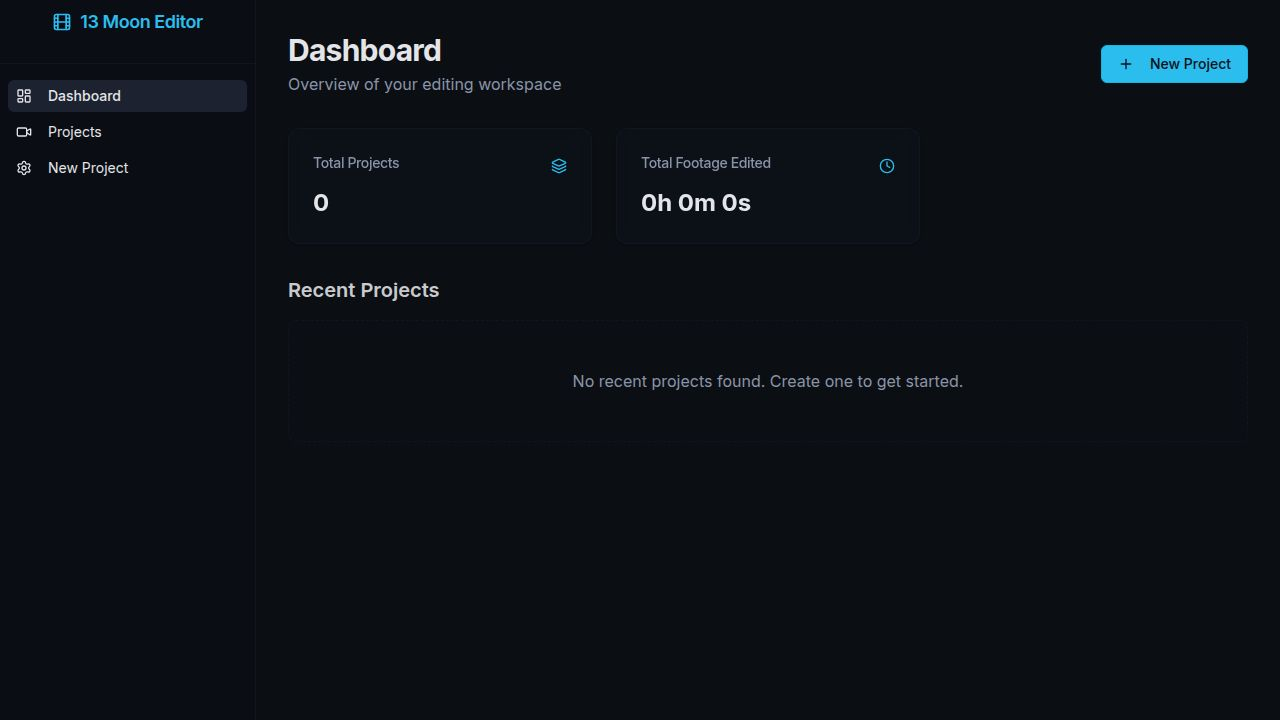
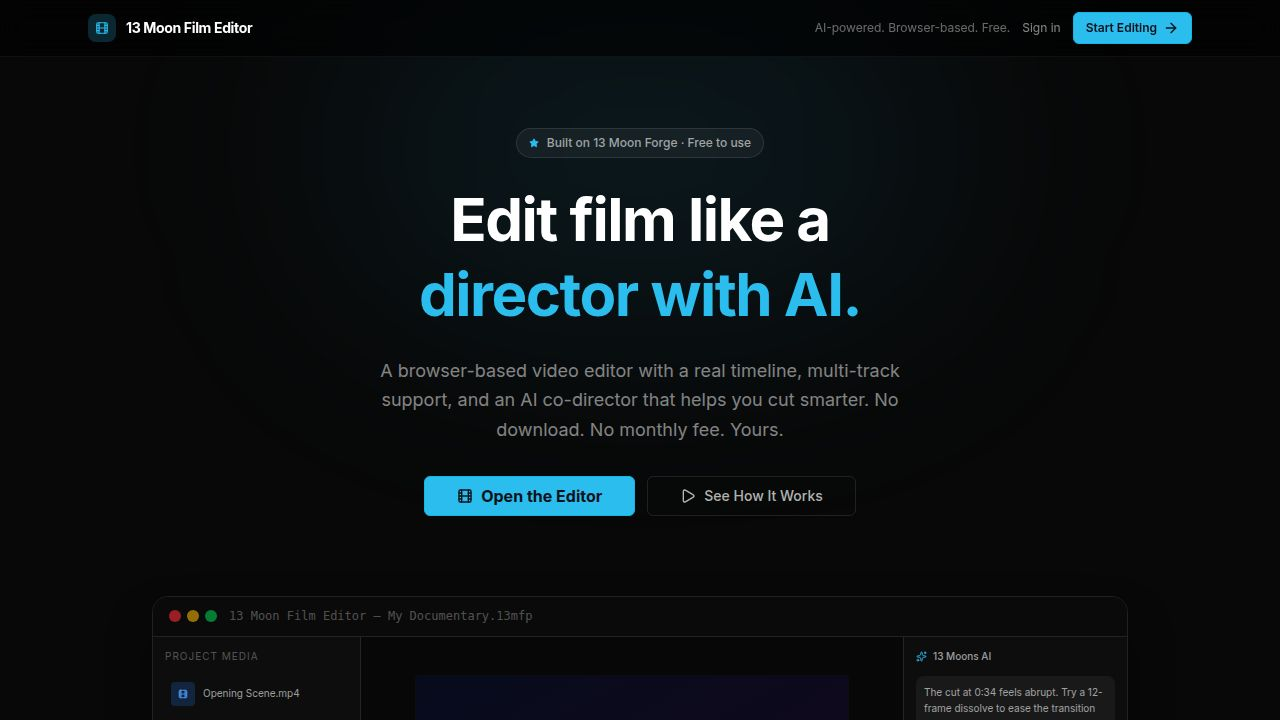
Add a sign-in page and enhance the dashboard with project templates
Add a new sign-in page component and route, and introduce quick-start templates to the dashboard for new film projects.

Replit-Commit-Author: Agent
Replit-Commit-Session-Id: cb496eb3-b730-44a3-8812-dbd408260926
Replit-Commit-Checkpoint-Type: full_checkpoint
Replit-Commit-Event-Id: a4cd8c9f-7460-4e6d-bfd3-202cbced2e61
Replit-Commit-Screenshot-Url: https://storage.googleapis.com/screenshot-production-us-central1/ae502d99-2e22-4428-9695-6a23076322d0/cb496eb3-b730-44a3-8812-dbd408260926/K6FhKYI
Replit-Helium-Checkpoint-Created: true

diff --git a/artifacts/film-editor/src/pages/dashboard.tsx b/artifacts/film-editor/src/pages/dashboard.tsx
@@ -1,95 +1,196 @@
-import { useListFilmProjects, useGetRecentFilmProjects } from "@workspace/api-client-react";
-import { Card, CardContent, CardHeader, CardTitle, CardDescription } from "@/components/ui/card";
+import { useListFilmProjects, useGetRecentFilmProjects, useCreateFilmProject, getListFilmProjectsQueryKey, getGetRecentFilmProjectsQueryKey } from "@workspace/api-client-react";
+import { Card, CardContent, CardHeader, CardTitle } from "@/components/ui/card";
 import { Button } from "@/components/ui/button";
-import { Link } from "wouter";
-import { Film, Clock, Layers, Plus } from "lucide-react";
+import { Link, useLocation } from "wouter";
+import { Film, Clock, Layers, Plus, Sparkles, Clapperboard, Smartphone, Monitor, Video, Loader2 } from "lucide-react";
+import { useQueryClient } from "@tanstack/react-query";
+import { useToast } from "@/hooks/use-toast";
 
 function formatDuration(ms: number) {
-  const seconds = Math.floor(ms / 1000);
-  const minutes = Math.floor(seconds / 60);
-  const hours = Math.floor(minutes / 60);
-  return `${hours}h ${minutes % 60}m ${seconds % 60}s`;
+  const s = Math.floor(ms / 1000);
+  const m = Math.floor(s / 60);
+  const h = Math.floor(m / 60);
+  if (h > 0) return `${h}h ${m % 60}m`;
+  if (m > 0) return `${m}m`;
+  return `${s}s`;
 }
 
+const STARTERS = [
+  {
+    icon: Clapperboard,
+    label: "Documentary",
+    desc: "16:9 · 24fps · Long-form storytelling",
+    color: "blue",
+    config: { title: "My Documentary", aspectRatio: "16:9", frameRate: 24, description: "Long-form documentary project" },
+  },
+  {
+    icon: Smartphone,
+    label: "Social Reel",
+    desc: "9:16 · 30fps · Short-form vertical",
+    color: "pink",
+    config: { title: "Social Reel", aspectRatio: "9:16", frameRate: 30, description: "Short-form vertical content" },
+  },
+  {
+    icon: Monitor,
+    label: "Short Film",
+    desc: "21:9 · 24fps · Cinematic ultrawide",
+    color: "purple",
+    config: { title: "My Short Film", aspectRatio: "21:9", frameRate: 24, description: "Cinematic short film project" },
+  },
+  {
+    icon: Video,
+    label: "Tutorial",
+    desc: "16:9 · 60fps · High-frame instructional",
+    color: "green",
+    config: { title: "Tutorial Video", aspectRatio: "16:9", frameRate: 60, description: "Instructional tutorial video" },
+  },
+] as const;
+
+const COLOR = {
+  blue: "bg-blue-500/10 border-blue-500/20 text-blue-400 hover:border-blue-400/50 hover:bg-blue-500/15",
+  pink: "bg-pink-500/10 border-pink-500/20 text-pink-400 hover:border-pink-400/50 hover:bg-pink-500/15",
+  purple: "bg-purple-500/10 border-purple-500/20 text-purple-400 hover:border-purple-400/50 hover:bg-purple-500/15",
+  green: "bg-green-500/10 border-green-500/20 text-green-400 hover:border-green-400/50 hover:bg-green-500/15",
+};
+
 export default function Dashboard() {
+  const [, navigate] = useLocation();
+  const { toast } = useToast();
+  const queryClient = useQueryClient();
   const { data: allProjects, isLoading: isLoadingAll } = useListFilmProjects();
   const { data: recentProjects, isLoading: isLoadingRecent } = useGetRecentFilmProjects();
+  const createProject = useCreateFilmProject();
 
   const totalDuration = allProjects?.reduce((acc, p) => acc + (p.totalDurationMs || 0), 0) || 0;
 
-  if (isLoadingAll || isLoadingRecent) {
-    return <div className="p-8 text-muted-foreground animate-pulse">Loading dashboard...</div>;
+  function quickCreate(config: typeof STARTERS[number]["config"]) {
+    createProject.mutate(
+      { data: config },
+      {
+        onSuccess: (project) => {
+          queryClient.invalidateQueries({ queryKey: getListFilmProjectsQueryKey() });
+          queryClient.invalidateQueries({ queryKey: getGetRecentFilmProjectsQueryKey() });
+          navigate(`/projects/${project.id}`);
+        },
+        onError: () => toast({ variant: "destructive", title: "Couldn't create project" }),
+      }
+    );
   }
 
   return (
-    <div className="max-w-5xl mx-auto space-y-8">
-      <div className="flex items-center justify-between">
+    <div className="max-w-5xl mx-auto space-y-10 py-2">
+
+      {/* Header */}
+      <div className="flex items-start justify-between">
         <div>
-          <h1 className="text-3xl font-bold tracking-tight text-foreground">Dashboard</h1>
-          <p className="text-muted-foreground mt-1">Overview of your editing workspace</p>
+          <h1 className="text-2xl font-bold tracking-tight text-foreground">Dashboard</h1>
+          <p className="text-sm text-muted-foreground mt-1">Your editing workspace</p>
         </div>
-        <Button asChild>
+        <Button asChild size="sm" className="gap-1.5">
           <Link href="/projects/new">
-            <Plus className="w-4 h-4 mr-2" />
-            New Project
+            <Plus className="w-3.5 h-3.5" /> New Project
           </Link>
         </Button>
       </div>
 
-      <div className="grid grid-cols-1 md:grid-cols-3 gap-6">
-        <Card className="bg-card/50 backdrop-blur-sm border-border/40">
-          <CardHeader className="flex flex-row items-center justify-between pb-2">
-            <CardTitle className="text-sm font-medium text-muted-foreground">Total Projects</CardTitle>
-            <Layers className="w-4 h-4 text-primary" />
-          </CardHeader>
-          <CardContent>
-            <div className="text-2xl font-bold">{allProjects?.length || 0}</div>
-          </CardContent>
-        </Card>
-        <Card className="bg-card/50 backdrop-blur-sm border-border/40">
-          <CardHeader className="flex flex-row items-center justify-between pb-2">
-            <CardTitle className="text-sm font-medium text-muted-foreground">Total Footage Edited</CardTitle>
-            <Clock className="w-4 h-4 text-primary" />
-          </CardHeader>
-          <CardContent>
-            <div className="text-2xl font-bold">{formatDuration(totalDuration)}</div>
-          </CardContent>
-        </Card>
+      {/* Stats */}
+      <div className="grid grid-cols-2 md:grid-cols-3 gap-4">
+        {[
+          { label: "Projects", value: allProjects?.length ?? "—", icon: Layers },
+          { label: "Total Footage", value: totalDuration ? formatDuration(totalDuration) : "0s", icon: Clock },
+          { label: "AI Co-Director", value: "Ready", icon: Sparkles },
+        ].map(({ label, value, icon: Icon }) => (
+          <Card key={label} className="bg-card/30 border-border/30">
+            <CardHeader className="flex flex-row items-center justify-between pb-1 pt-4 px-4">
+              <CardTitle className="text-xs font-medium text-muted-foreground">{label}</CardTitle>
+              <Icon className="w-3.5 h-3.5 text-primary/60" />
+            </CardHeader>
+            <CardContent className="px-4 pb-4">
+              <div className="text-xl font-bold">{isLoadingAll ? "…" : value}</div>
+            </CardContent>
+          </Card>
+        ))}
       </div>
 
+      {/* Quick Starters */}
       <div>
-        <h2 className="text-xl font-semibold mb-4 text-foreground/90">Recent Projects</h2>
-        <div className="grid grid-cols-1 md:grid-cols-2 lg:grid-cols-3 gap-6">
-          {recentProjects?.map((project) => (
-            <Card key={project.id} className="group overflow-hidden bg-card/40 border-border/30 hover:border-primary/50 transition-colors">
-              <div className="aspect-video bg-muted relative flex items-center justify-center border-b border-border/40 overflow-hidden">
-                {project.thumbnailUrl ? (
-                  <img src={project.thumbnailUrl} alt={project.title} className="w-full h-full object-cover group-hover:scale-105 transition-transform duration-500" />
-                ) : (
-                  <Film className="w-10 h-10 text-muted-foreground/30" />
-                )}
-                <div className="absolute inset-0 bg-black/40 opacity-0 group-hover:opacity-100 transition-opacity flex items-center justify-center">
-                  <Button asChild variant="secondary" size="sm" className="pointer-events-auto">
-                    <Link href={`/projects/${project.id}`}>Open Editor</Link>
-                  </Button>
-                </div>
-              </div>
-              <CardHeader className="p-4">
-                <CardTitle className="text-base truncate">{project.title}</CardTitle>
-                <CardDescription className="flex items-center gap-2 text-xs">
-                  <span className="capitalize">{project.status.replace("_", " ")}</span>
-                  <span>•</span>
-                  <span>{formatDuration(project.totalDurationMs)}</span>
-                </CardDescription>
-              </CardHeader>
-            </Card>
-          ))}
-          {recentProjects?.length === 0 && (
-            <div className="col-span-full py-12 text-center text-muted-foreground border border-dashed border-border/40 rounded-lg">
-              No recent projects found. Create one to get started.
-            </div>
-          )}
+        <div className="flex items-center justify-between mb-4">
+          <h2 className="text-base font-semibold text-foreground/90">Quick Start</h2>
+          <span className="text-xs text-muted-foreground">Pick a template to begin</span>
         </div>
+        <div className="grid grid-cols-2 md:grid-cols-4 gap-3">
+          {STARTERS.map((s) => {
+            const Icon = s.icon;
+            return (
+              <button
+                key={s.label}
+                onClick={() => quickCreate(s.config)}
+                disabled={createProject.isPending}
+                className={`text-left p-4 rounded-xl border transition-all ${COLOR[s.color]} disabled:opacity-50`}
+              >
+                <Icon size={18} className="mb-2.5" />
+                <div className="font-semibold text-sm text-white/90">{s.label}</div>
+                <div className="text-[11px] text-white/40 mt-0.5 leading-snug">{s.desc}</div>
+              </button>
+            );
+          })}
+        </div>
+      </div>
+
+      {/* Recent Projects */}
+      <div>
+        <div className="flex items-center justify-between mb-4">
+          <h2 className="text-base font-semibold text-foreground/90">Recent Projects</h2>
+          <Link href="/projects" className="text-xs text-primary/70 hover:text-primary transition-colors">
+            View all →
+          </Link>
+        </div>
+
+        {isLoadingRecent ? (
+          <div className="py-12 flex justify-center">
+            <Loader2 className="w-5 h-5 animate-spin text-muted-foreground" />
+          </div>
+        ) : recentProjects?.length === 0 ? (
+          <div className="py-16 text-center border border-dashed border-border/30 rounded-xl flex flex-col items-center gap-4">
+            <Film className="w-10 h-10 text-muted-foreground/20" />
+            <div>
+              <p className="text-sm font-medium text-foreground/70">No projects yet</p>
+              <p className="text-xs text-muted-foreground mt-1">Pick a quick start above or create a blank project</p>
+            </div>
+            <Button asChild size="sm" variant="outline" className="border-border/40">
+              <Link href="/projects/new">Create blank project</Link>
+            </Button>
+          </div>
+        ) : (
+          <div className="grid grid-cols-1 md:grid-cols-2 lg:grid-cols-3 gap-4">
+            {recentProjects?.map((project) => (
+              <Link key={project.id} href={`/projects/${project.id}`}>
+                <div className="group rounded-xl border border-border/30 bg-card/30 hover:border-primary/40 hover:bg-card/50 transition-all overflow-hidden cursor-pointer">
+                  <div className="aspect-video bg-black/60 flex items-center justify-center border-b border-border/20 relative">
+                    {project.thumbnailUrl ? (
+                      <img src={project.thumbnailUrl} alt={project.title} className="w-full h-full object-cover" />
+                    ) : (
+                      <Film className="w-8 h-8 text-white/10" />
+                    )}
+                    <div className="absolute inset-0 bg-primary/5 opacity-0 group-hover:opacity-100 transition-opacity flex items-center justify-center">
+                      <span className="text-xs font-medium text-white/80 bg-black/60 px-3 py-1.5 rounded-full">Open Editor</span>
+                    </div>
+                  </div>
+                  <div className="p-3">
+                    <div className="font-medium text-sm text-white/90 truncate">{project.title}</div>
+                    <div className="flex items-center gap-2 mt-1 text-[11px] text-white/35 font-mono">
+                      <span className="capitalize">{project.status.replace("_", " ")}</span>
+                      <span>·</span>
+                      <span>{formatDuration(project.totalDurationMs)}</span>
+                      <span>·</span>
+                      <span>{project.clipCount} clips</span>
+                    </div>
+                  </div>
+                </div>
+              </Link>
+            ))}
+          </div>
+        )}
       </div>
     </div>
   );

diff --git a/artifacts/film-editor/src/pages/sign-in.tsx b/artifacts/film-editor/src/pages/sign-in.tsx
@@ -1,0 +1,41 @@
+import { Film, Sparkles, Lock } from "lucide-react";
+import { useEffect } from "react";
+
+export default function SignIn() {
+  useEffect(() => {
+    // After Clerk signs in, redirect back to the film editor dashboard
+    const returnUrl = encodeURIComponent("/film-editor/dashboard");
+    window.location.href = `/sign-in?redirect_url=${returnUrl}`;
+  }, []);
+
+  return (
+    <div className="h-screen w-full flex items-center justify-center bg-[#080808]">
+      <div className="flex flex-col items-center gap-6 text-center max-w-sm px-6">
+        {/* Logo */}
+        <div className="w-14 h-14 rounded-2xl bg-primary/10 border border-primary/20 flex items-center justify-center">
+          <Film size={24} className="text-primary" />
+        </div>
+
+        <div className="space-y-2">
+          <h1 className="text-xl font-bold text-white tracking-tight">Sign in to 13 Moon Editor</h1>
+          <p className="text-sm text-white/40 leading-relaxed">
+            Taking you to sign in…
+          </p>
+        </div>
+
+        {/* Loading indicator */}
+        <div className="w-6 h-6 border-2 border-primary border-t-transparent rounded-full animate-spin" />
+
+        <div className="flex items-center gap-4 pt-2">
+          <div className="flex items-center gap-1.5 text-[11px] text-white/25">
+            <Lock size={10} /> Secured by Clerk
+          </div>
+          <div className="w-px h-3 bg-white/10" />
+          <div className="flex items-center gap-1.5 text-[11px] text-white/25">
+            <Sparkles size={10} /> 13 Moon Forge
+          </div>
+        </div>
+      </div>
+    </div>
+  );
+}

diff --git a/artifacts/film-editor/src/App.tsx b/artifacts/film-editor/src/App.tsx
@@ -10,6 +10,7 @@ import NewProject from "@/pages/new-project";
 import Editor from "@/pages/editor";
 import ProjectSettings from "@/pages/project-settings";
 import Landing from "@/pages/landing";
+import SignIn from "@/pages/sign-in";
 import { Layout } from "@/components/layout";
 
 const queryClient = new QueryClient();
@@ -40,6 +41,7 @@ function Router() {
   return (
     <Switch>
       <Route path="/" component={Landing} />
+      <Route path="/sign-in" component={SignIn} />
       <Route path="/dashboard" component={() => (
         <ProtectedRoute><Layout><Dashboard /></Layout></ProtectedRoute>
       )} />